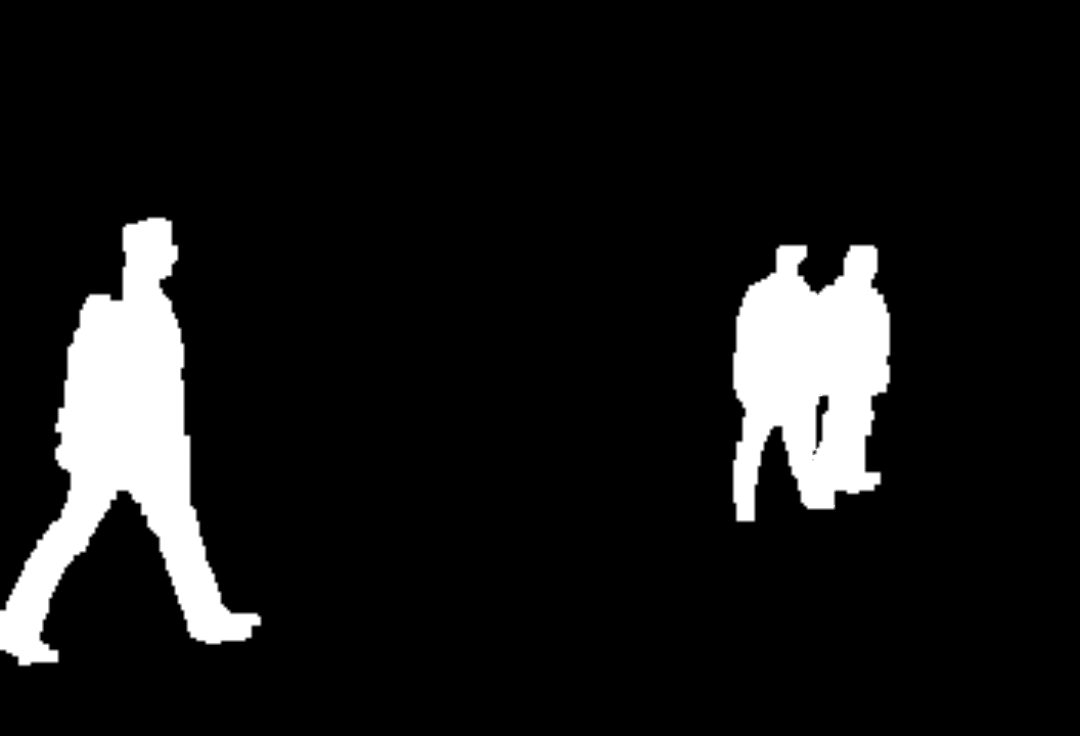
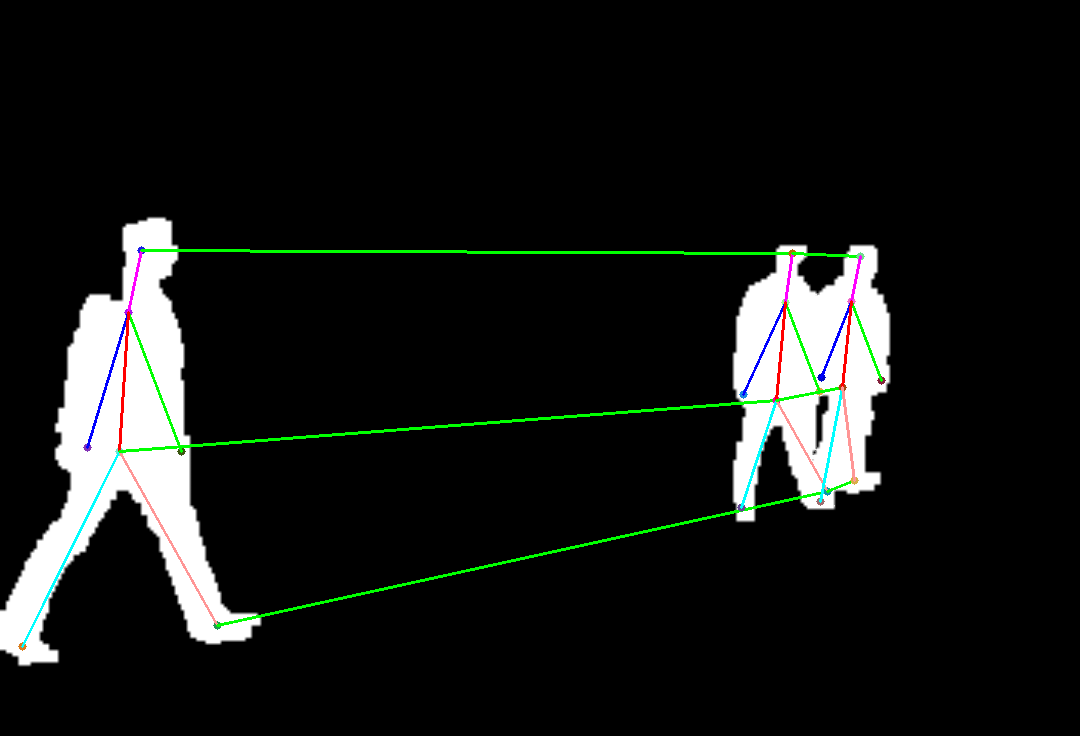
maintaining the project

diff --git a/Perspective Floor Method/pose figure makers.py b/Perspective Floor Method/pose figure makers.py
@@ -4,7 +4,19 @@ import generalLib as glib
 import perspectiveFloorLib as pflib
 from os import listdir
 
-
+""" This script make a figure which contain a simple skelton of three pedestrians, 
+it connect three skull_points from the first skelton to the 2nd to the last one.
+How to select the skull_points:
+    1. run the code.
+    2. select those 7 skull_points in the exact order:
+        1. head(or skull).
+        2. neck.
+        3. left hand.
+        4. right hand.
+        5. pelvic.
+        6. left leg.
+        7. right leg.
+    """
 # to save a floor scene image:
 
 # floor = pflib.draw_perspective_floor()[0]
@@ -15,35 +27,25 @@ from os import listdir
 # cv.destroyAllWindows()
 # ##############################################
 
+
 def draw_circle(event, x, y, flags, param):
-    global points
+    global skull_points
     if event == cv.EVENT_LBUTTONDOWN:
-        points.append((x, y))
+        skull_points.append((x, y))
         print(x, y)
 
-
-new_dim, _ = pflib.get_new_old_dim()
 
 cv.namedWindow(winname='Silhouette')
 cv.setMouseCallback('Silhouette', draw_circle)
 
-images = []
-points = []
-points_set = []
+
+new_dim, _ = pflib.get_new_old_dim()
+skull_points_set, skull_points, images = [], [], []
 direc = "GaitDatasetA-silh/zyf/45_2"
 # direc = "GaitDatasetA-silh/fyc/45_2"
 # direc = "GaitDatasetA-silh/zc/45_3"
 pictures = listdir(direc)
-pictures = [pictures[0], pictures[82], pictures[-1]]
-# pictures = [
-#     "GaitDatasetA-silh/yjf/00_2/yjf-00_2-006.png",
-#     "GaitDatasetA-silh/yjf/45_2/yjf-45_2-032.png"
-# ]
-
-# pictures = [
-#     "GaitDatasetA-silh/hy/00_2/hy-00_2-030.png",
-#     "GaitDatasetA-silh/hy/45_2/hy-45_2-005.png"
-# ]
+pictures = [pictures[0], pictures[len(pictures)//2], pictures[-1]]
 
 
 for picture in pictures:
@@ -55,48 +57,54 @@ for picture in pictures:
     cv.imshow('Silhouette', img)
 
     if cv.waitKey() & 0xFF == 113:
-        points_set.append(points)
+        skull_points_set.append(skull_points)
         print("x"*20)
-        points = []
+        skull_points = []
         continue
 cv.destroyAllWindows()
 
 
-pictures = images
 result = np.zeros(tuple(reversed(new_dim)), np.uint8)
 result = cv.cvtColor(result, cv.COLOR_BGR2RGB)
 for pic in pictures:
     result = cv.bitwise_or(result, pic)
 
-print(points_set)
-for index, point in enumerate(points_set):
+print(skull_points_set)
+for index, point in enumerate(skull_points_set):
     for xy in point:
         cv.circle(result, xy, 4, pflib.random_color(), -1)
-    result = cv.line(result, point[0], point[1], (255, 0, 255), 2)  # A
-    result = cv.line(result, point[1], point[2], (255, 0, 0), 2)
-    result = cv.line(result, point[1], point[3], (0, 255, 0), 2)
-    result = cv.line(result, point[1], point[4], (0, 0, 255), 2)
-    result = cv.line(result, point[4], point[5], (255, 255, 0), 2)
-    result = cv.line(result, point[4], point[6], (0, 255, 255), 2)
-
-    result = cv.line(result, point[0], point[1], (255, 0, 0), 2)
-    result = cv.line(result, point[0], point[2], (0, 255, 0), 2)
+    cv.line(result, point[0], point[1], (255, 0, 255), 2)  # A
+    cv.line(result, point[1], point[2], (255, 0, 0), 2)
+    cv.line(result, point[1], point[3], (0, 255, 0), 2)
+    cv.line(result, point[1], point[4], (0, 0, 255), 2)
+    cv.line(result, point[4], point[5], (255, 255, 0), 2)
+    cv.line(result, point[4], point[6], (230, 150, 255), 2)
     if index < 2:
-        result = cv.line(result, point[0],
-                         points_set[index+1][0], (0, 255, 0), 2)
-        result = cv.line(result, point[4],
-                         points_set[index+1][4], (0, 255, 0), 2)
-        result = cv.line(result, point[6],
-                         points_set[index+1][6], (0, 255, 0), 2)
+        cv.line(result, point[0],
+                skull_points_set[index+1][0], (0, 255, 0), 2)
+        cv.line(result, point[4],
+                skull_points_set[index+1][4], (0, 255, 0), 2)
+        cv.line(result, point[6],
+                skull_points_set[index+1][6], (0, 255, 0), 2)
 
 cv.imshow("Result", result)
-cv.imwrite("lLResult.png", result)
+cv.imwrite("Pose figure maker.png", result)
 cv.waitKey()
 cv.destroyAllWindows()
 
 
 # ############################################################
-# # Resizing script
+# pictures = [
+#     "GaitDatasetA-silh/yjf/00_2/yjf-00_2-006.png",
+#     "GaitDatasetA-silh/yjf/45_2/yjf-45_2-032.png"
+# ]
+
+# pictures = [
+#     "GaitDatasetA-silh/hy/00_2/hy-00_2-030.png",
+#     "GaitDatasetA-silh/hy/45_2/hy-45_2-005.png"
+# ]
+# ############################################################
+# # Resizing image script
 # # pic = [
 # #     r"M:\Documents\Projects\End Of Study\End of Study Project\graduation thesis\figures\hy-45_2-005.png",
 # #     r"M:\Documents\Projects\End Of Study\End of Study Project\graduation thesis\figures\hy-00_2-030.png"

diff --git a/Perspective Floor Method/silh video DataSetB.py b/Perspective Floor Method/silh video DataSetB.py
@@ -1,40 +1,32 @@
 import cv2 as cv
 from time import time
-from os import listdir
-from random import choice
 import generalLib as glib
-from os.path import isfile
 import perspectiveFloorLib as pflib
-import viewfinder
+from sys import exit
 
 
 floor = pflib.draw_perspective_floor()[0]
 new_dim, old_dim = pflib.get_new_old_dim()
-# new_dim = tuple(reversed(floor.shape[:2]))
-direc = main_direc = glib.dataset_directories['B']
+directory = main_direc = glib.dataset_directories['B']
 waiting_Key = int(1000/25)
 history = []
 pTime = time()
 
 
 while True:
-    # we used here different logic then A_video to get a random 
+    # we used here different logic then A_video to get a random
     # pic directorie which isn't in the directories history.
-    while not isfile(direc):
-        direc = glib.path(direc, choice(listdir(direc)))
-    direc = glib.pic_direc(direc)
-    if direc in history:
-        continue
-    history.append(direc)  # append the direc in the history
-
-    pictures = listdir(direc)
-    glib.B_dataset_details(
-        direc, pictures[0], len(pictures), print_res=True)
+    pictures, directory = glib.random_path(directory, history)
+    if pictures is None:
+        # sys.exit(): in case we didn't find any new image folder.
+        exit('all image folders has been seen.')
+    glib.print_B_dataset_details(
+        directory, pictures[0], len(pictures), print_res=True)
 
     for index, pic in enumerate(pictures):
         if index == 0:
             print('Calculating!')
-            img = cv.imread(glib.path(direc, pic))
+            img = cv.imread(glib.join_path(directory, pic))
             # this comment will be removed when new_coordinate func is fixed.
             # first_points = pflib.interest_points(img)[0]
             # first_points = (glib.new_coordinate(first_points[0], old_dim, new_dim),
@@ -44,16 +36,15 @@ while True:
             print('Done Calculating!')
         elif index == len(pictures)-1:
             print('Calculating!')
-            img = cv.imread(glib.path(direc, pictures[-1]))
+            img = cv.imread(glib.join_path(directory, pictures[-1]))
             # this comment will be removed when new_coordinate func is fixed.
             # last_points, img = pflib.interest_points(img)[0:2]
             # last_points = (glib.new_coordinate(last_points[0], old_dim, new_dim),
             #                glib.new_coordinate(last_points[1], old_dim, new_dim))
-
             img = cv.resize(img, new_dim)
             scene = cv.bitwise_or(floor, img)
             print('Done Calculating!')
-            
+
             # this part draw a viewfinder (see viewfinder.py) on the foot points
             # which me our interest points.
             # there is an issue with the new_coord function (check glib.new_coordinate())
@@ -64,13 +55,13 @@ while True:
             # viewfinder.viewfinder(scene, tuple(reversed(last_points[0])))
             # viewfinder.viewfinder(scene, tuple(reversed(last_points[1])))
         else:
-            img = cv.imread(glib.path(direc, pic))
+            img = cv.imread(glib.join_path(directory, pic))
             img = cv.resize(img, new_dim)
             cTime = time()
-            scene = glib.prepare_scene(pic, floor, direc, 1 /
+            scene = glib.prepare_scene(pic, floor, directory, 1 /
                                        (cTime-pTime), cTime-pTime)
 
-        cv.imshow('data Set B', glib.resize_image(scene, scale=1))
+        cv.imshow('dataSet B', glib.resize_image(scene, scale=1))
         pTime = time()
         if cv.waitKey(waiting_Key) & 0xFF == 115:
             # press 's' to stop the current video
@@ -80,7 +71,6 @@ while True:
         # press 'q' to quit
         break
     cv.destroyAllWindows()
-    direc = main_direc
-
+    directory = main_direc
 
 cv.destroyAllWindows()

diff --git a/Perspective Floor Method/generalLib.py b/Perspective Floor Method/generalLib.py
@@ -1,6 +1,8 @@
-from email.policy import default
 from time import time, sleep, localtime
 from os import name, system
+from random import choice
+from os import listdir
+from os.path import isfile
 import numpy as np
 import cv2 as cv
 
@@ -80,7 +82,7 @@ def clear():
         _ = system('clear')
 
 
-def A_dataset_details(direc='', pic_name='', n_frmaes='', print_res=False):
+def print_A_dataset_details(direc='', pic_name='', n_frmaes='', print_res=False):
     inf = pic_name[:-4].split("-")
     if print_res:
         print("Path is >>{:^35}<<".format(direc))
@@ -92,7 +94,7 @@ def A_dataset_details(direc='', pic_name='', n_frmaes='', print_res=False):
         print(">>{:>15} : {:>03} deg".format('Walking Angel', inf[3]))
 
 
-def B_dataset_details(direc='', pic_name='', n_frmaes='', print_res=False):
+def print_B_dataset_details(direc='', pic_name='', n_frmaes='', print_res=False):
     inf = pic_name[:-4].split("-")
     if print_res:
         print("Path is >>{:^35}<<".format(direc))
@@ -113,7 +115,7 @@ def B_dataset_details(direc='', pic_name='', n_frmaes='', print_res=False):
     return inf
 
 
-def path(*paths):
+def join_path(*paths):
     return "/".join(paths)
 
 
@@ -125,6 +127,51 @@ def pic_direc(path):
 def pic_name(path):
     direc = path.split("/")
     return direc[-1]
+
+
+def random_path(path, history=[], max_counter=50):
+    """
+    Returns (pictures list, directory path) from a random pictures(samples) directory path.
+
+    This function gives you a list of images from a random folder path from a main path(or dataset)
+    along with the path of the images,
+    which the path of images isn't in the history list (if any is given).
+
+    Parameters
+    ----------
+    path : string
+        dataset("GaitDatasetA-silh" for exp) or dataset char ("A" for exp).
+
+    history : list
+        default = None, 
+        history of visited paths.
+
+    max_counter : int
+    default = 50
+
+    Returns
+    -------
+    string
+        random images list(from a random path).
+    string
+        images folder path.
+    """
+    if path in dataset_directories.keys():
+        path = dataset_directories[path.upper()]
+    counter = 0
+    while counter < max_counter:
+        counter += 1
+        directory = path
+        while not isfile(directory):
+            directory = join_path(directory, choice(listdir(directory)))
+        directory = pic_direc(directory)
+        if directory in history:
+            continue
+    history.append(directory)  # append the direc to the history
+    pictures = listdir(directory)
+    if counter > max_counter:
+        return None, directory
+    return pictures, directory
 
 
 def put_info(img, point, cp, delta, angle, version='1'):
@@ -179,6 +226,7 @@ def put_info(img, point, cp, delta, angle, version='1'):
                        font, fontscale, color, thickness)
     return img
 
+
 def walk_statu_filter(wsl, ws):
     # wsl: walking status list
     # ws: walking status
@@ -219,7 +267,7 @@ def put_fps(img, fps, late, put_fps=True, put_latency=False):
 
 
 def prepare_scene(pic, floor, direc, fps, late):
-    img = cv.imread(path(direc, pic))
+    img = cv.imread(join_path(direc, pic))
     # img = pic
     img = cv.resize(img, tuple(reversed(floor.shape[:2])))
     scene = cv.bitwise_or(img, floor)

diff --git a/Perspective Floor Method/silh video DataSetC.py b/Perspective Floor Method/silh video DataSetC.py
@@ -21,13 +21,13 @@ pTime = 0
 while True:
     chosen_subject = str(choice(subjects))
     # cause the folders are all in numbers
-    walking_status_samples = listdir(glib.path(main_direc, chosen_subject))
+    walking_status_samples = listdir(glib.join_path(main_direc, chosen_subject))
     walking_status = choice(list(walk_stats.keys()))
     walking_status_samples = glib.walk_statu_filter(
         walking_status_samples, walking_status)
     sequence = choice(walking_status_samples)
     # sequence_number = "{:02}".format(randint(0,1)) if walking_status != "fn" else "{:02}".format(randint(0,3))
-    full_path = glib.path(main_direc, chosen_subject, sequence)
+    full_path = glib.join_path(main_direc, chosen_subject, sequence)
     if full_path in history:
         continue
     history.append(full_path)

diff --git a/Perspective Floor Method/silh video DataSetA.py b/Perspective Floor Method/silh video DataSetA.py
@@ -42,7 +42,7 @@ while True:
         fps = 1/(cTime-pTime)
         pTime = cTime
         #############################################
-        img = cv.imread(glib.path(path, pic))
+        img = cv.imread(glib.join_path(path, pic))
         img = cv.resize(img, new_dim)
         scene = cv.bitwise_or(floor, img)
         glib.put_fps(scene, fps, latency, put_latency=True)
